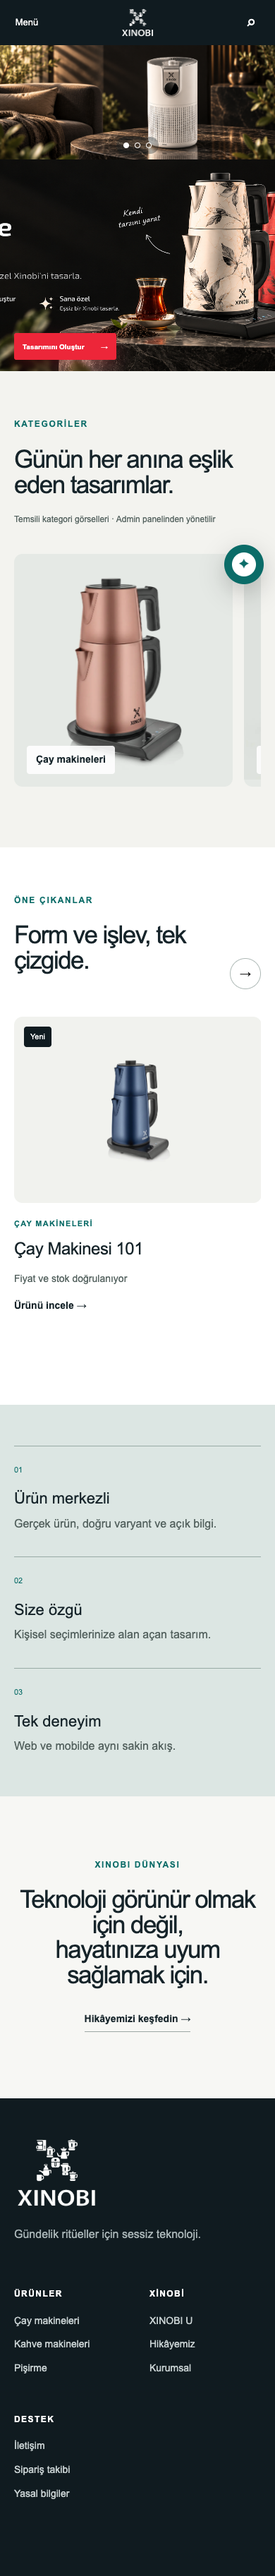
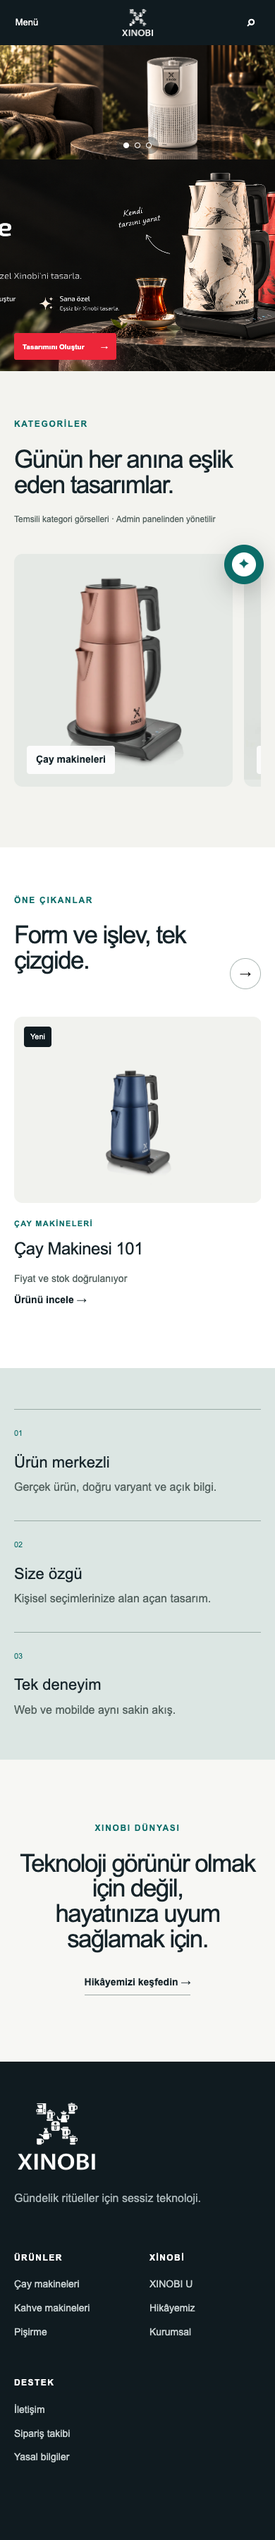
fix(design): align featured product cards

diff --git a/design/screens/WEB-001/prototype.css b/design/screens/WEB-001/prototype.css
@@ -63,3 +63,14 @@
 .u-fixed-cta:hover{background:#cf1f31}.u-fixed-cta:focus-visible{outline-color:#fff}
 @media(max-width:1023px){.u-banner{height:330px}.u-fixed-cta{left:32px;bottom:22px;width:155px;min-height:40px;font-size:11px}}
 @media(max-width:767px){.u-banner{height:300px}.u-banner-image{object-position:center}.u-fixed-cta{left:20px;bottom:16px;width:145px;min-height:38px;padding:0 12px;font-size:10px}}
+
+/* Öne çıkan ürünlerde ortak ölçek ve taban çizgisi */
+.product-row{align-items:stretch}
+.product-card{display:flex;flex-direction:column;min-width:0}
+.product-image{height:auto;aspect-ratio:4/3;padding:28px;display:flex;align-items:flex-end;justify-content:center}
+.product-card:nth-child(1) .product-image img,.product-card:nth-child(2) .product-image img,.product-card:nth-child(3) .product-image img{position:absolute;left:7%;bottom:28px;width:86%;height:72%;max-width:none;object-fit:contain;object-position:center bottom}
+.product-card:nth-child(2) .product-image img{transform:scale(1.16);transform-origin:center bottom}
+.product-card h3{min-height:38px;display:flex;align-items:flex-start}
+.product-card>p:not(.meta){min-height:44px;margin-bottom:8px}
+.product-card>a{margin-top:auto;width:max-content}
+@media(max-width:767px){.product-card{min-width:90vw}.product-image{padding:22px}.product-card:nth-child(1) .product-image img,.product-card:nth-child(2) .product-image img,.product-card:nth-child(3) .product-image img{left:6%;bottom:22px;width:88%;height:70%;max-width:none}.product-card h3,.product-card>p:not(.meta){min-height:0}}

diff --git a/design/screens/WEB-001/prototype.html b/design/screens/WEB-001/prototype.html
@@ -4,7 +4,7 @@
     <meta charset="utf-8" />
     <meta name="viewport" content="width=device-width, initial-scale=1" />
     <title>Xinobi — WEB-001 ortak tasarım</title>
-    <link rel="stylesheet" href="prototype.css?v=20261002-3" />
+    <link rel="stylesheet" href="prototype.css?v=20261002-8" />
     <script src="prototype.js?v=20261002-3" defer></script>
   </head>
   <body>

diff --git a/test/2026-10-02/TST-065-featured-product-alignment.md b/test/2026-10-02/TST-065-featured-product-alignment.md
@@ -1,0 +1,32 @@
+# TST-065 — Öne çıkan ürün hizalama
+
+- Tarih: 02.10.2026
+- Seviye: DESIGN PROTOTYPE / BROWSER / RESPONSIVE / VISUAL
+- Kapsam: `design/screens/WEB-001/prototype.html`
+
+## Beklenti
+
+Öne çıkan üç ürünün medya alanları, alt hizaları ve bilgi satırları eşit olmalı; farklı kaynak görsel oranları kart yüksekliğini bozmamalı.
+
+## Uygulama ve ara sonuçlar
+
+İlk tarayıcı ölçümünde kaynak görsel oranları nedeniyle ürün görsel yükseklikleri `353.16`, `235.28` ve `455.22` piksel ölçüldü. Ortak medya kutusu ve yüzde ölçü tek başına yeterli olmadığından görseller kutu içinde mutlak konumlandırıldı. Mobilde genel `min-width:0` kuralının karuseli kapattığı ara testte belirlendi (`scrollWidth=clientWidth=350`) ve mobil kart genişliği yeniden `90vw` olarak korundu. Kahve makinesinin kaynak dosyasındaki iç boşluk optik ölçek düzeltmesiyle dengelendi.
+
+## Final doğrulama
+
+Komutlar:
+
+```text
+node tools/test-web001-interactions.mjs
+node tools/render-web001.mjs
+```
+
+Sonuç:
+
+- Masaüstü ürün medya alanları: eşit yükseklik ve ortak taban çizgisi.
+- Ürün başlığı, açıklama ve bağlantı satırları: ortak kart düzeni.
+- Mobil ürün karuseli: başarılı.
+- 1440, 1024, 768, 390 ve 320 px: yatay taşma yok, 12/12 görsel yüklendi.
+- Görsel kontrol: `desktop-1440.png` ve `mobile-390.png` üzerinde dengeli ölçek doğrulandı.
+
+Durum: Başarılı.

diff --git a/test/INDEX.md b/test/INDEX.md
@@ -66,3 +66,4 @@
 | TST-062 | 01.10.2026 | Ana sayfa ve admin slider geri bildirimi | Başarılı; header ayrımı, kategori dropdown, kişiselleştirme bannerı ve fotoğraf/video slider yönetimi doğrulandı | DESIGN / ADMIN UI / BROWSER / BUILD | `2026-10-01/TST-062-home-admin-slider-feedback.md` |
 | TST-063 | 01.10.2026 | WEB-001 XINOBI U sabit CTA bannerı | Başarılı; sabit kalınlık, admin görsel alanı, sabit CTA rotası ve düzenlenebilir buton rengi doğrulandı | DESIGN PROTOTYPE / ADMIN UI / RESPONSIVE / BROWSER | `2026-10-01/TST-063-xinobi-u-fixed-cta-banner.md` |
 | TST-064 | 02.10.2026 | WEB-001 slider ve XINOBI U banner yenilemesi | Başarılı; üç yeni slider görseli, yeni XINOBI U bannerı ve küçültülmüş CTA beş responsive boyutta doğrulandı | DESIGN PROTOTYPE / ADMIN UI / RESPONSIVE / BROWSER | `2026-10-02/TST-064-web001-banner-refresh.md` |
+| TST-065 | 02.10.2026 | WEB-001 öne çıkan ürün hizalama | Başarılı; üç ürünün medya alanı, taban çizgisi ve bilgi satırları eşitlendi, mobil karusel korundu | DESIGN PROTOTYPE / BROWSER / RESPONSIVE / VISUAL | `2026-10-02/TST-065-featured-product-alignment.md` |
